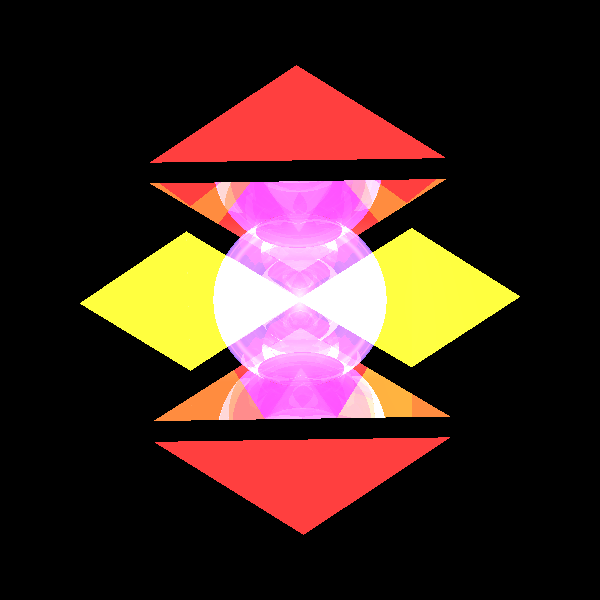
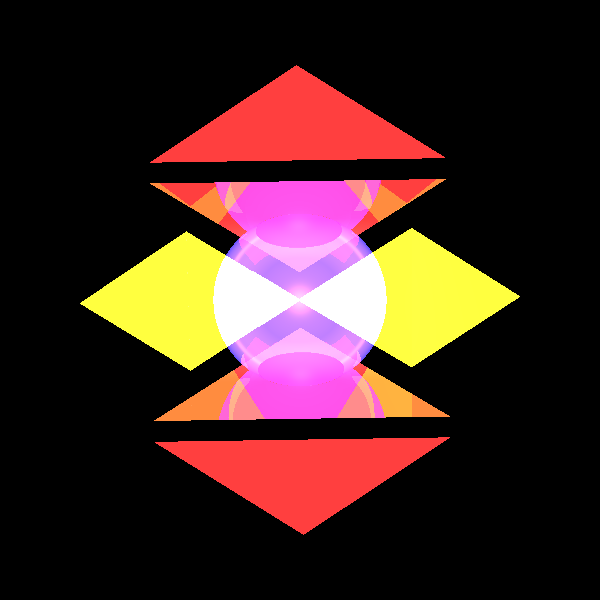
miniproject1

Changed region(s): [[0.36, 0.3, 0.66, 0.72], [0.36, 0.66, 0.39, 0.72], [0.6, 0.57, 0.63, 0.6]]

diff --git a/src/renderer/Render.java b/src/renderer/Render.java
@@ -112,7 +112,13 @@ public class Render {
 
             //calculating the diffiuse and rhe specular influences
             if (sign(nl) == sign(nv)) {
-                double ktr = transparency(lightSource, l, n, p);
+                List<Ray> listRay= null;
+                for (int i = 0; i < IMwr.getNy(); i++) {
+                    for (int j = 0; j < IMwr.getNx(); j++) {
+                      listRay= scene.get_camera().constructRayBeamThroughPixel(IMwr.getNx(), IMwr.getNy(),j,i,
+                              scene.get_distance(),IMwr.getWidth(),IMwr.getHeight(),2,81);
+                    }}
+                double ktr = transparency(lightSource, p, listRay);
                 if (ktr * k > MIN_CALC_COLOR_K) {
                     Color ip = lightSource.getIntensity(p.getPoint()).scale(ktr);
                     color = color.add(
@@ -232,30 +238,37 @@ public class Render {
      * this function calculate the influence of shadows
      *
      * @param ls the light source that illuminates the geometry
-     * @param l  the vector from the light source
-     * @param n  the normal vector to the intersected point
      * @param gp the intersected point
+     * @param listray a list of rays represents a beam
      * @return the level of the transparent influence on the objects
      */
-    private double transparency(LightSource ls, Vector l, Vector n, GeoPoint gp) {
-        Vector lightDirection = l.scale(-1);
-        Vector delta = n.scale(n.dotProduct(lightDirection) > 0 ? DELTA : -DELTA);
-
-        Ray lightRay = new Ray(gp.getPoint(), lightDirection, n);
-        List<GeoPoint> intersections = scene.get_geometries().findIntsersections(lightRay);
-        if (intersections == null) {
-            return 1.0;
-        }
-        double lightDistance = ls.getDistance(gp.getPoint());
-        double ktr = 1.0;
-        for (GeoPoint geoP : intersections) {
-            if (alignZero(geoP.getPoint().distance(gp.getPoint()) - lightDistance) <= 0)
-                ktr = ktr * geoP.getGeometry().getMaterial().get_kT();
-            if (ktr < MIN_CALC_COLOR_K) {
-                return 0.0;
+    private double transparency(LightSource ls, GeoPoint gp, List<Ray> listray) {
+        double result=0.0;
+        double ktr=0.0;
+        for(Ray r : listray)
+        {
+            List<GeoPoint> intersections = scene.get_geometries().findIntsersections(r);
+            if (intersections == null) {
+                result= result + 1.0;
             }
+            else
+            {
+                double lightDistance = ls.getDistance(gp.getPoint());
+                ktr= 1.0;
+                for (GeoPoint geoP : intersections) {
+                    if (alignZero(geoP.getPoint().distance(gp.getPoint()) - lightDistance) <= 0)
+                        ktr = ktr * geoP.getGeometry().getMaterial().get_kT();
+                    if (ktr < MIN_CALC_COLOR_K) {
+                        ktr= 0.0;
+                        break;
+                    }
+                }
+            }
+            result= result+ktr;
         }
-        return ktr;
+
+        double average= result/listray.size();
+        return average;
     }
 
 
@@ -284,9 +297,9 @@ public class Render {
     }
 
     /**
-     * this function calculates the closest intersection of the object to the camera
+     * this function calculates the closest intersection
      *
-     * @param ray the ray constructed from the camera to the geometry
+     * @param ray the ray constructed
      * @return the closest intersection point
      */
     private GeoPoint findCLosestIntersection(Ray ray) {
@@ -325,6 +338,7 @@ public class Render {
                 }
             }
         }
+
     }
 
     /**

diff --git a/src/elements/Camera.java b/src/elements/Camera.java
@@ -4,10 +4,21 @@ import primitives.Point3D;
 import primitives.Ray;
 import primitives.Vector;
 
+import java.util.LinkedList;
+import java.util.List;
+import java.util.Random;
+
 import static primitives.Util.isZero;
+
+/**
+ * camera class
+ *
+ * @author Rivka Zizovi 207265711 and Efrat Anconina 322796749
+ */
 
 public class Camera {
     //fields
+    private static final Random rnd = new Random();//helper field for randoming in the rays creation function
     Point3D p0; //the position point of the camera
     Vector Vup, Vright, Vto; //the vectors represents the direction of observation of the camera
 
@@ -64,7 +75,7 @@ public class Camera {
     /**
      * this function create a ray thrown from the camera through a center of a pixel
      * @param nX= the number of the pixels on the X axis
-     * @param nY= the number of the pixels on the X axis
+     * @param nY= the number of the pixels on the Y axis
      * @param j= the position of the pixel on the Y anix
      * @param i= the position of the pixel on the X anix
      * @param screenDistance= the distance of the camera from the view plane
@@ -93,4 +104,34 @@ public class Camera {
         Ray ray = new Ray(new Point3D(p0), new Vector(vij));
         return ray;
     }
+
+    /**
+     * this function create a list of rays thrown from the camera through the grid
+     * @param nX the number of the pixels on the X axis
+     * @param nY the number of the pixels on the Y axis
+     * @param j the position of the pixel on the Y anix
+     * @param i the position of the pixel on the X anix
+     * @param screenDistance the distance of the camera from the view plane
+     * @param screenWidth the width of the view plane
+     * @param screenHeight the height of the view plane
+     * @param density
+     * @param amount the amount of rays wanted to be thrown from the camera to create the beam
+     * @return list of rays thrown from the camera through the grid
+     */
+    public List<Ray> constructRayBeamThroughPixel(int nX, int nY, int j, int i,
+                                                  double screenDistance, double screenWidth, double screenHeight,
+                                                  double density, int amount) {
+        if (isZero(screenDistance)) {
+            throw new IllegalArgumentException("distance cannot be 0");
+        }
+
+        List<Ray> rays = new LinkedList<>();
+
+
+        return rays;
+    }
 }
+/*
+לחשב את רשימת הקרניים
+לייצר תמונה שתשקף צל
+*/

diff --git a/src/renderer/ImageWriter.java b/src/renderer/ImageWriter.java
@@ -15,7 +15,7 @@ import javax.imageio.*;
  * responsible of holding image related parameters of View Plane - pixel matrix
  * size and resolution
  *
- * @author Dan
+ * @author Rivka Zizovi 207265711 and Efrat Anconina 322796749
  */
 public class ImageWriter {
     private double _imageWidth, _imageHeight;
@@ -32,7 +32,7 @@ public class ImageWriter {
     /**
      * Image Writer constructor accepting image name and View Plane parameters,
      *
-     * @param imageName the name of jpeg file
+     * @param imageName the name of png file
      * @param width     View Plane width in size units
      * @param height    View Plane height in size units
      * @param nX        amount of pixels by Width

diff --git a/src/elements/AmbientLight.java b/src/elements/AmbientLight.java
@@ -10,7 +10,7 @@ import primitives.Color;
 public class AmbientLight extends Light {
     /**
      * constructor for the ambient light
-     * @param IA the color of the ambirnt light
+     * @param IA the color of the ambient light
      * @param KA the coefficient of the light
      */
     public AmbientLight(Color IA, double KA){

diff --git a/src/primitives/Material.java b/src/primitives/Material.java
@@ -12,7 +12,8 @@ public class Material {
     double _kT;//transparency coefficient
     double _kR;//reflection coefficient
 
-
+    //kt=1 means perfect transparency
+    //kr=1 means perfect
 
     /**
      * a constructor to the material
